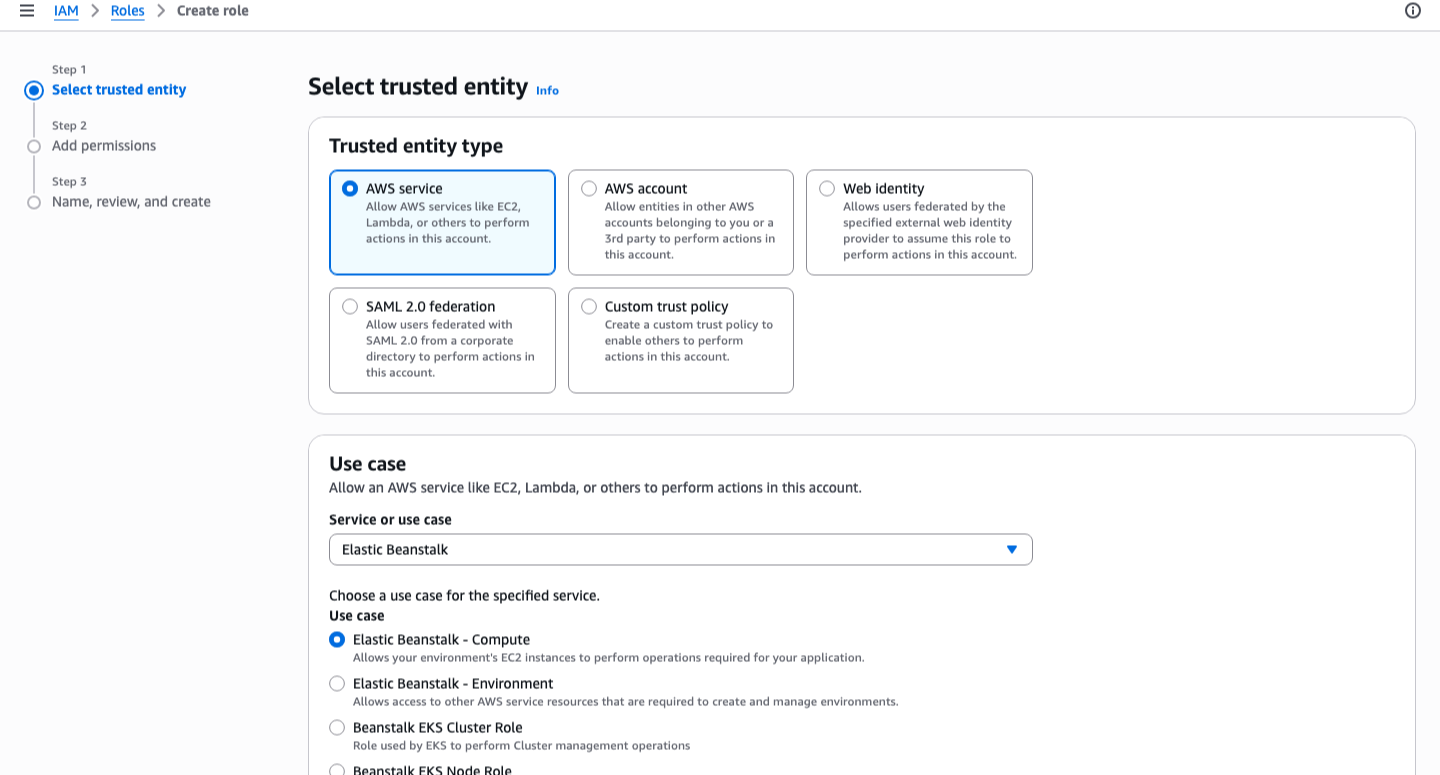
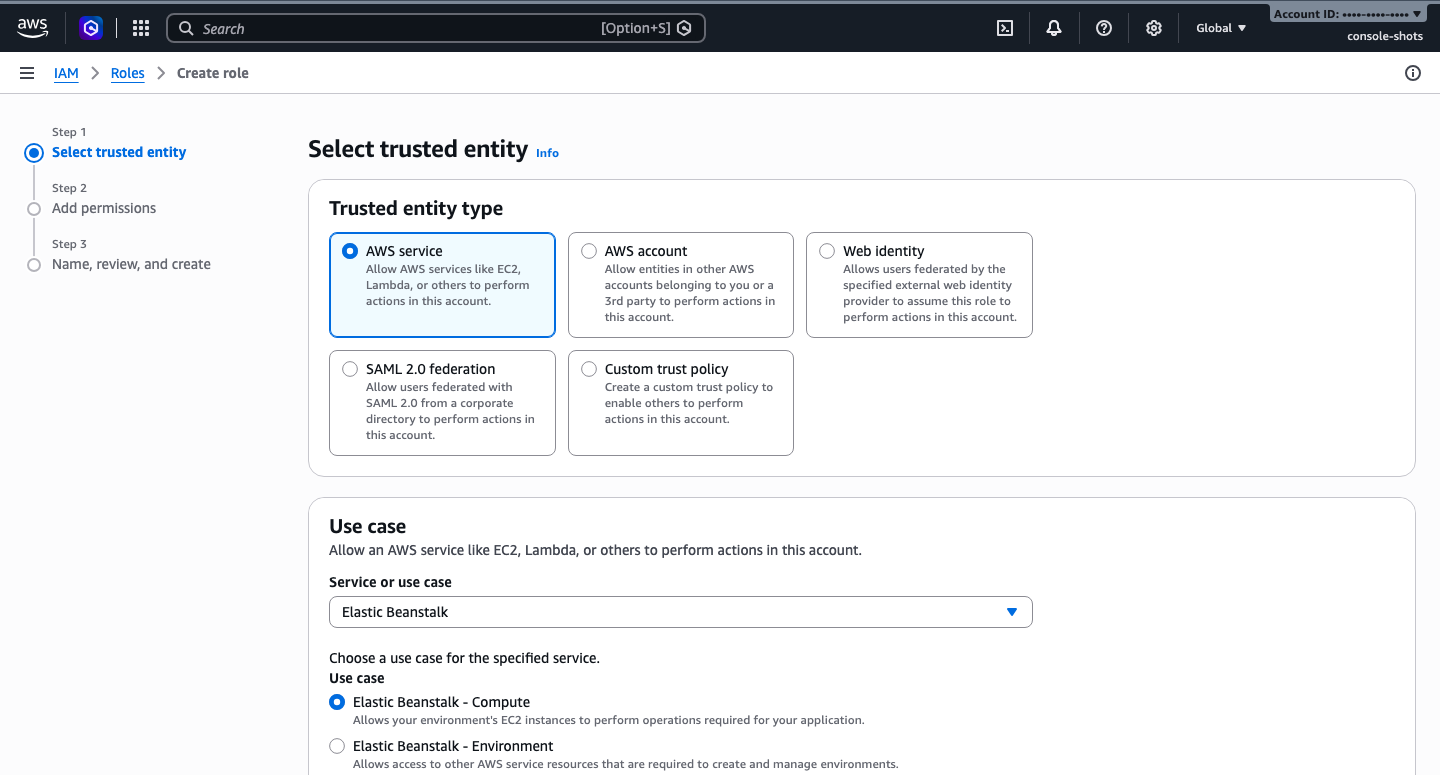
Re-crop IAM images, add 500 troubleshooting row to SKILLS.md

diff --git a/SKILLS.md b/SKILLS.md
@@ -79,6 +79,7 @@ Use the cleanup block on the page they followed. Order matters: terminate the en
 | `t3.micro` hangs or times out with MySQL and Flask in one compose file | Too little memory. Use `t3.small` or larger | Project 2 |
 | `delete-application` fails right after `terminate-environment` | Wait first: `aws elasticbeanstalk wait environment-terminated --environment-names <env>` | Project 1 |
 | Cluster Mode environment fails with `Target.Timeout`, then `Rollback skipped` | The database security group has no inbound rule on port 3306 from the environment's group. Add it, then rebuild | Project 2 |
+| Cluster Mode launch fails with `Target.ResponseCodeMismatch` and `[500]` | The app is reachable but errors on the database. Read the app log in CloudWatch (`/aws/elasticbeanstalk/application/logs`). `Unknown database` means the instance was created without `--db-name` | Project 2 |
 | Cluster Mode URL does not answer on `http://` | The load balancer is HTTPS only. Use `https://` | Project 1 |
 | Cluster Mode app unreachable on the wrong port | Set the service port to the port the app listens on (default 8080, Flask in Project 2 uses 5000) | Project 2 |
 | Cluster Mode rejects one option per variable | Pass all variables as one JSON option, `env-variables`, in `aws:elasticbeanstalk:eks:environment` | Project 2 |
@@ -97,7 +98,7 @@ Use the cleanup block on the page they followed. Order matters: terminate the en
 
 - **Region.** Commands were tested in `us-west-2`. Set `AWS_REGION` and the default region to match.
 - **Platform name.** Examples use `64bit Amazon Linux 2023 v4.13.10 running Docker`. The version changes. List the current ones with `aws elasticbeanstalk list-available-solution-stacks`.
-- **Roles.** Standard Mode needs `aws-elasticbeanstalk-service-role` and `aws-elasticbeanstalk-ec2-role`. Cluster Mode uses its own roles, which the console creates for you.
+- **Roles.** Standard Mode needs `aws-elasticbeanstalk-service-role` and `aws-elasticbeanstalk-ec2-role`. The Standard wizard can create them (**Create default role**), but the EB CLI and AWS CLI routes need them to exist first. Cluster Mode uses three of its own roles, which you pick or create in its wizard.
 - **Legacy platforms.** PHP 8.2 was the oldest PHP version we could create. Platform branches retire on published dates, so check the legacy page before promising long-term support.
 - **Docker images.** Build for amd64, and for arm64 too if people use Apple silicon, or the instance cannot run the image. Pin the tag instead of `latest`.
 - **Shell.** The commands are bash-style. On Windows, use WSL 2 or Git Bash, not PowerShell.
